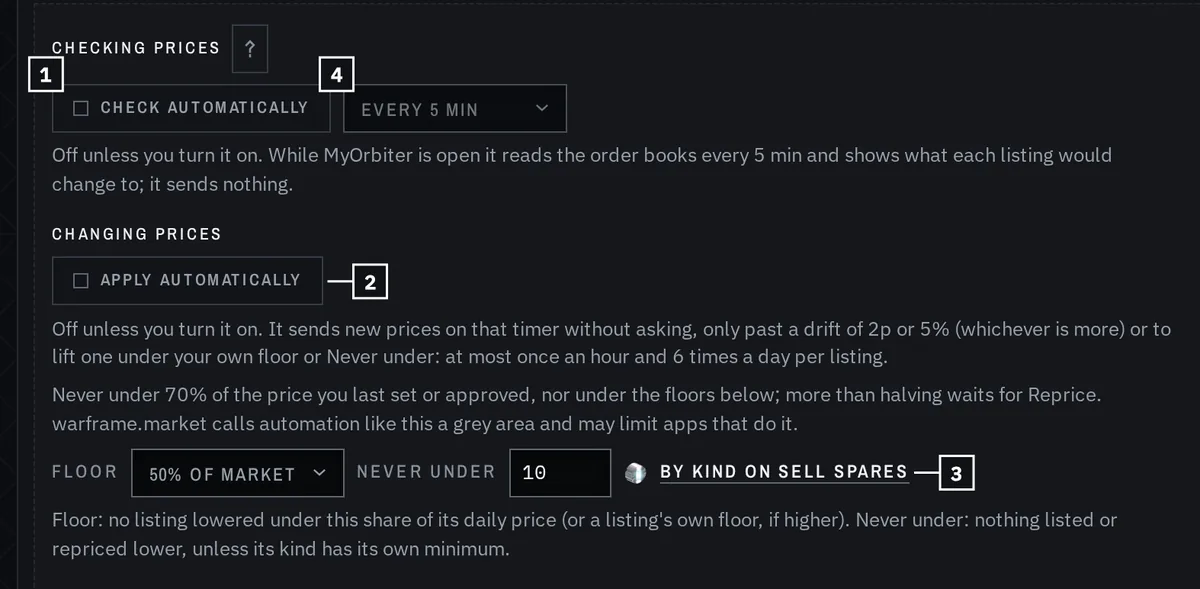
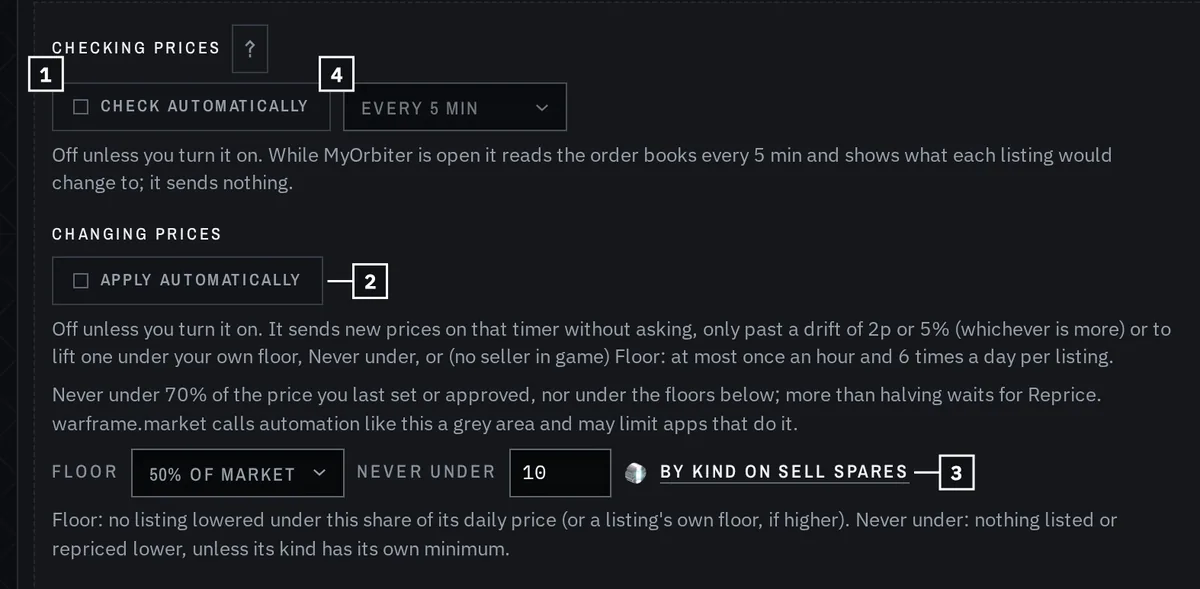
Startup platform, Sync's word, the floor sentence, schedule comments
- The platform at start is never a switch. The defaults' platform comes
  before the saved settings are in, without them, and doesn't count;
  only a change after the saved settings are in clears the saved check
  time. A console player's saved time is kept across a start. The test
  calls the defaults' platform first, then the saved one, as the app
  does.
- Sync's word between syncs comes from core/syncWord.ts: after a sync
  that failed, got no answer or no new read, it keeps that sync's word
  ("Old read", "No read", "Not read") or "Not synced" until a later sync
  goes through. It speaks of the game data only; the Guide and the
  sidebar's help say so. A test covers each outcome.
- Orders: Apply automatically also lifts a listing under Floor when no
  seller is in game; the sentence says so and stays two lines at 960 px.
- schedule.ts: EVERY_CHOICES keeps its own comment, and the header says
  the time is saved for an interval over an hour.

diff --git a/src/App.svelte b/src/App.svelte
@@ -136,6 +136,7 @@
   import Crest from "./lib/ui/Crest.svelte";
   import MoreMenu, { type MoreItem } from "./lib/ui/MoreMenu.svelte";
   import { checkDue } from "./lib/core/schedule";
+  import { syncIdleWord, type SyncEnd } from "./lib/core/syncWord";
   import IconButton from "./lib/ui/IconButton.svelte";
   import ProgressButton from "./lib/ui/ProgressButton.svelte";
   import { Job, JobError } from "./lib/job.svelte";
@@ -296,6 +297,8 @@
 
   let settings = $state<Settings>(defaultSettings());
   let settingsReady = false;
+  /** The saved settings replaced the defaults (set with them, before anything else awaits). */
+  let settingsLoaded = $state(false);
   /** Saved settings are in and drawn: until then a section's saved state is set, not folded to, so
    *  closed sections don't fold shut on every launch. */
   let railSettled = false;
@@ -356,9 +359,10 @@
   $effect(() => {
     if (!available.some((p) => p.id === settings.tab)) settings.tab = "home";
   });
-  // The market follows your platform; a new one means new order books and prices.
+  // The market follows your platform; a new one means new order books and prices. The defaults'
+  // platform, before the saved settings are in, is never a switch.
   $effect(() => {
-    void mkt.usePlatform(settings.market.platform, settings.market).catch(() => {});
+    void mkt.usePlatform(settings.market.platform, settingsLoaded ? settings.market : undefined).catch(() => {});
   });
   // Switching to or from a console changes what an empty TennoScope folder means.
   let wasConsole: boolean | null = null;
@@ -2247,6 +2251,8 @@
   const syncMode = $derived(!onConsole && ts.report?.setup.access_mode === "full" && !!ts.report.game_running);
   /** The sync's step in words, for the button's tooltip (the button itself has a word for it). */
   let syncStep = $state<string | null>(null);
+  /** How the last sync ended, for its word between syncs (`syncIdleWord`). */
+  let syncEnd = $state<SyncEnd | null>(null);
   function refreshAll() {
     // Already at it (Ctrl+R again): the button flashes rather than the key doing nothing.
     if (syncJob.working) {
@@ -2319,7 +2325,12 @@
       } finally {
         syncStep = null;
       }
-    }).finally(syncFinished);
+    })
+      .then(() => {
+        if (syncJob.state === "failed") syncEnd = { failed: true, short: syncJob.short };
+        else if (syncJob.state === "done") syncEnd = { failed: false, note: syncJob.note };
+      })
+      .finally(syncFinished);
   }
 
   // ---------------------------------------------------------------- keyboard, like a desktop app
@@ -2636,6 +2647,7 @@
       // licence: read before anything uses it. Without it there's simply nothing to dissolve into.
       const wiki = loadWikiData().catch((e) => logLine("warn", "app", `couldn't read the wiki data files: ${e}`));
       settings = await loadSettings();
+      settingsLoaded = true;
       // The sidebar's sections take their saved state as it is, without folding; from the next frame on, a change folds.
       requestAnimationFrame(() => (railSettled = true));
       await wiki;
@@ -3014,7 +3026,7 @@
         <HelpMark part="rail.foot" corner />
       </div>
       <div class="tools" class:grid={!compact}>
-      <ProgressButton bind:this={syncButton} class="tool sync" stamp={false} picture="refresh-timer" size={20} aside job={syncJob} busy={loading && !bundle} spin label="Sync" working={syncJob.phase ?? "Reading…"} failLabel={syncJob.short ?? "Not synced"} idleWord={error ? "Not synced" : bundle ? "Up to date" : "Waiting…"} sizer={["Waiting…", "Up to date", "Not synced"]}
+      <ProgressButton bind:this={syncButton} class="tool sync" stamp={false} picture="refresh-timer" size={20} aside job={syncJob} busy={loading && !bundle} spin label="Sync" working={syncJob.phase ?? "Reading…"} failLabel={syncJob.short ?? "Not synced"} idleWord={syncIdleWord(syncEnd, !!error, !!bundle)} sizer={["Waiting…", "Up to date", "Not synced"]}
         title={`${syncStep ? `${syncStep}…\n\n` : ""}${onConsole ? "Reload your warframe.market listings, the fissures and Baro" : syncMode ? "Sync: ask TennoScope to read your inventory from the game now, and wait for the new read" : "Sync: reload TennoScope's last saved read and the live fissures. With Warframe running and TennoScope on Full access, it asks TennoScope for a fresh read from the game instead"} (Ctrl+R)`}
         onclick={refreshAll} />
       <button class="tool bell" data-card="notices" class:paused={pausedNow} aria-label={unread ? `Notifications, ${unread} new` : "Notifications"} aria-expanded={showNotices} title={pausedNow ? `Notifications (paused${unread ? `, ${unread} new` : ""}): what MyOrbiter told you, and what it tells you about` : unread ? `Notifications: ${unread} new` : "Notifications: what MyOrbiter told you, and what it tells you about"} onclick={() => openNotices("recent")}><span class="ti"><GameIcon name="mail" size={20} even /></span><span class="lbl">Notifications</span>{#if unread}<span class="count count-tag">{unread > 99 ? "99+" : unread}</span>{/if}</button>

diff --git a/src/lib/tabs/Guide.svelte b/src/lib/tabs/Guide.svelte
@@ -251,7 +251,7 @@
         <li>Filters and sorting stay as you left them while MyOrbiter is open.</li>
         <li>A page that hits an error says so, with <b>Try again</b> to draw it afresh; the rest of MyOrbiter keeps working, and the log (Settings) has what went wrong.</li>
         <li data-card="report-bug"><span class="ic"><Icon name="bug" /></span> <b>Report a bug</b> (here, in Settings, at the bottom of the sidebar, or with <kbd>Shift</kbd>+<kbd>F1</kbd>): say what happened, and Open on GitHub puts the report on your clipboard and opens MyOrbiter's issue form on GitHub, for you to paste it into the first box, give it a title and submit (the page's address carries only the version and your system; MyOrbiter itself sends nothing), or Copy report copies it to send another way if you don't have a GitHub account. It can add technical details (MyOrbiter's version, your system, the page, TennoScope's state and the log's last lines) with sign-ins, addresses, ids and every player's name hidden, and you can read all of it before sending. MyOrbiter itself never sends anything. <button type="button" class="link" title="Open Report a bug: nothing is posted until you press Submit new issue on GitHub" onclick={() => bugReport.show()}>Report a bug</button></li>
-        <li><b>Sync</b> (bottom of the sidebar) asks TennoScope to read your inventory from the game, fills while it waits for that new read (up to half a minute), and ticks once it's loaded; if no read comes, it says why under the button. Between syncs it says Up to date, or Not synced when the last read failed. When Warframe isn't running or TennoScope can't read the game, it re-reads what TennoScope last saved instead. Buttons that start longer work (Check prices on Orders and Rivens, Reprice, the spares plan) fill the same way and say how it went.</li>
+        <li><b>Sync</b> (bottom of the sidebar) asks TennoScope to read your inventory from the game, fills while it waits for that new read (up to half a minute), and ticks once it's loaded; if no read comes, it says why under the button. Between syncs it keeps the last sync's word: Up to date, or Old read, No read, Not read or Not synced until a sync goes through. The word is about your game data only, not the fissures or the other cards from the live worldstate. When Warframe isn't running or TennoScope can't read the game, it re-reads what TennoScope last saved instead. Buttons that start longer work (Check prices on Orders and Rivens, Reprice, the spares plan) fill the same way and say how it went.</li>
         <li>Beside Sync and Notifications, Settings; under them, the rest of the buttons: Search, Help (this Guide) and Report a bug, each with its name and shortcut when you point at it, and <b>TennoScope</b>, which opens its panel: whether it's healthy, screen-capture permission for the reward overlay, and inventory sync. Its diamond is filled silver when all is well, outlined in dark red when something wants a look (a request that failed in the last minute, screen-capture permission to allow, no choice yet about reading your inventory, or no report from it yet), filled dark red when it isn't running or a part of it failed, and an outline in silver while its status isn't known yet. With the sidebar folded to icons they are in <b>More</b>, under Notifications: arrow keys move through its menu and Esc closes it.</li>
         <li>The sidebar folds to icons on narrow windows; the arrow at its top left folds or unfolds it, from the same spot in both widths, and MyOrbiter remembers your choice.</li>
         <li>Animations follow your system's reduce-motion setting: with it on, things change at once without moving.</li>

diff --git a/src/lib/core/schedule.ts b/src/lib/core/schedule.ts
@@ -4,18 +4,20 @@
 // are read; the limits per listing (core/drift.ts: once an hour, six times a day) are separate and
 // hold whatever the interval.
 //
-// The time of the last timed check is kept in the settings, so a long interval means what it says
-// across restarts: a start before the next check is due waits for it; a start after it was due
-// (the app was closed when it fell) runs one check, once, as soon as the first check after a start
-// can run; the next one comes a whole interval after that. A saved time in the future (a clock
-// that went back) counts as due, as no saved time does: one check, as on every start before.
+// For an interval over an hour, the time of the last timed check is kept in the settings, so a
+// long interval means what it says across restarts: a start before the next check is due waits
+// for it; a start after it was due (the app was closed when it fell) runs one check, once, as soon
+// as the first check after a start can run; the next one comes a whole interval after that. A
+// saved time in the future (a clock that went back) counts as due, as no saved time does: one
+// check, as on every start before. At an hour or less the time stays in memory, and a start
+// checks at once.
 
-/** The intervals offered, in minutes: every 1, 2, 5, 10, 15 and 30 minutes, every hour, 2, 6 and 12 hours, once a day, once a week. */
 /** Only intervals over this many minutes save the time of the last check in the settings: a save
  *  (and the redraw of hidden pages it brings) then comes at most once an hour. */
 export const SAVED_ABOVE_MIN = 60;
 export const savesCheck = (every: number | undefined): boolean => every != null && every > SAVED_ABOVE_MIN;
 
+/** The intervals offered, in minutes: every 1, 2, 5, 10, 15 and 30 minutes, every hour, 2, 6 and 12 hours, once a day, once a week. */
 export const EVERY_CHOICES = [1, 2, 5, 10, 15, 30, 60, 120, 360, 720, 1440, 10080] as const;
 
 /** The interval from a saved file: one of the choices, or `fallback`. */

diff --git a/tests/syncWord.test.ts b/tests/syncWord.test.ts
@@ -1,0 +1,43 @@
+// Sync's word between syncs (core/syncWord.ts): one case per way a sync can end.
+import { test } from "node:test";
+import assert from "node:assert/strict";
+import { syncIdleWord, type SyncEnd } from "../src/lib/core/syncWord";
+
+const done = (note: string | null): SyncEnd => ({ failed: false, note });
+const failed = (short: string | null): SyncEnd => ({ failed: true, short });
+
+test("before the first load: waiting; once the data is in: up to date", () => {
+  assert.equal(syncIdleWord(null, false, false), "Waiting…");
+  assert.equal(syncIdleWord(null, false, true), "Up to date");
+});
+
+test("a sync that went through: up to date", () => {
+  assert.equal(syncIdleWord(done("Synced"), false, true), "Up to date");
+  assert.equal(syncIdleWord(done("Up to date"), false, true), "Up to date");
+});
+
+test("a sync that ended without a new read keeps its own word", () => {
+  assert.equal(syncIdleWord(done("Old read"), false, true), "Old read");
+  assert.equal(syncIdleWord(done("No read"), false, true), "No read");
+});
+
+test("a sync that failed keeps its word, or says not synced", () => {
+  // The saved data couldn't be read.
+  assert.equal(syncIdleWord(failed("Not read"), false, true), "Not read");
+  // TennoScope didn't answer, or no new read came in time: no short word of its own.
+  assert.equal(syncIdleWord(failed(null), false, true), "Not synced");
+  // Never up to date, whatever loaded before.
+  assert.notEqual(syncIdleWord(failed(null), false, true), "Up to date");
+});
+
+test("saved data that couldn't be read: not synced", () => {
+  assert.equal(syncIdleWord(null, true, true), "Not synced");
+  assert.equal(syncIdleWord(done("Synced"), true, true), "Not synced");
+});
+
+test("a later sync that succeeds puts it back to up to date", () => {
+  let last: SyncEnd = failed(null);
+  assert.equal(syncIdleWord(last, false, true), "Not synced");
+  last = done("Synced");
+  assert.equal(syncIdleWord(last, false, true), "Up to date");
+});

diff --git a/src/lib/marketStore.svelte.ts b/src/lib/marketStore.svelte.ts
@@ -175,7 +175,8 @@ class MarketStore {
    * Switches market: every order book, price history and cheap-buy result read so far was the
    * other platform's, so they go.
    */
-  /** `s`: the market settings, whose saved check time goes with a switch (the old platform's). */
+  /** `s`: the saved market settings, once they're in; their saved check time goes with a switch (the
+   *  old platform's). Before them (the defaults) there's no `s`, and nothing counts as a switch. */
   async usePlatform(p: Platform, s?: { lastCheck?: number | null }) {
     // One switch at a time, in the order asked: PC → Xbox → PC quickly ends on PC.
     const run = this.switching.then(() => this.switchPlatform(p, s));
@@ -183,11 +184,12 @@ class MarketStore {
     return run;
   }
   private switching: Promise<void> = Promise.resolve();
-  /** The first platform this run is the one MyOrbiter starts on, not a switch. */
+  /** The saved settings' platform is in: the one MyOrbiter starts on, not a switch. Only a change
+   *  after it is one. */
   private chosen = false;
   private async switchPlatform(p: Platform, s?: { lastCheck?: number | null }) {
-    const first = !this.chosen;
-    this.chosen = true;
+    const isSwitch = !!s && this.chosen;
+    if (s) this.chosen = true;
     if (p === this.platform) return;
     await market.setPlatform(p);
     this.platform = p;
@@ -196,9 +198,9 @@ class MarketStore {
     this.deals = [];
     this.dealsAt = null;
     this.lastPass = null;
-    if (!first) {
+    if (isSwitch) {
       this.switched = true;
-      if (s) s.lastCheck = null;
+      s.lastCheck = null;
     }
     // The live feed subscribed to the old platform's new listings: started again if it's on.
     if (this.feedOn) {

diff --git a/tests/scheduleStore.test.ts b/tests/scheduleStore.test.ts
@@ -112,14 +112,17 @@ test("a pass that stops after three failed reads is tried again within the hour 
 test("after a platform switch the saved time is set aside and cleared: the new platform is checked at once", async () => {
   market.setPlatform = (async () => {}) as never;
   const saved = Date.now() - MIN;
-  const s = settings({ every: 24 * 60, lastCheck: saved });
-  const other = mkt.platform === "pc" ? "ps4" : "pc";
-  // The platform MyOrbiter starts on is no switch: the saved time stands.
-  await mkt.usePlatform(other as never, s);
+  const s = settings({ platform: "ps4", every: 24 * 60, lastCheck: saved });
+  // As MyOrbiter starts: the defaults' platform first (PC, before the saved settings are in, so
+  // with none), then the saved settings' own, a console. Neither is a switch: the saved time stands.
+  await mkt.usePlatform(defaultMarketSettings().platform);
+  await mkt.usePlatform("ps4", s);
   assert.equal(s.lastCheck, saved);
   assert.equal(mkt.lastCheckOf(s), saved);
+  assert.equal(checkDue(mkt.lastCheckOf(s), mkt.passDelay(24 * 60 * MIN), Date.now()), false, "a start before it's due waits");
   // A switch while it runs: set aside now, and gone from the settings for the next start.
-  await mkt.usePlatform((other === "pc" ? "ps4" : "pc") as never, s);
+  s.platform = "pc";
+  await mkt.usePlatform("pc", s);
   assert.equal(mkt.lastCheckOf(s), null);
   assert.equal(s.lastCheck, null);
   assert.equal(checkDue(mkt.lastCheckOf(s), mkt.passDelay(24 * 60 * MIN), Date.now()), true);

diff --git a/src/lib/tabs/Orders.svelte b/src/lib/tabs/Orders.svelte
@@ -908,7 +908,7 @@
           <section class="pg" aria-labelledby="auto-apply-h">
             <h3 class="register" id="auto-apply-h">Changing prices</h3>
             <div class="grp"><Chip bind:on={settings.auto} label="Apply automatically" title={`Off unless you turn it on. Also send the new prices to warframe.market on that timer, without asking. ${DRIFT_RULES}. ${console ? AUTO_LIMITS_CONSOLE : AUTO_LIMITS}. ${GREY_AREA}.`} onchange={(on) => { if (on) settings.autoCheck = true; }} /></div>
-            <p class="dim small why">Off unless you turn it on. It sends new prices on that timer without asking, only past a drift of {BAND_WORDS} or to lift one under your own floor or Never under: at most once {every(DRIFT.cooldownMs)} and {DRIFT.perDay} times a day per listing.</p>
+            <p class="dim small why">Off unless you turn it on. It sends new prices on that timer without asking, only past a drift of {BAND_WORDS} or to lift one under your own floor, Never under, or (no seller in game) Floor: at most once {every(DRIFT.cooldownMs)} and {DRIFT.perDay} times a day per listing.</p>
             <p class="dim small why">Never under {Math.round(AUTO_FLOOR_SHARE * 100)}% of the price you last set or approved, nor under the floors below; more than halving waits for Reprice. {GREY_AREA}.</p>
             <div class="grp">
               <span class="register">Floor</span>

diff --git a/src/lib/core/syncWord.ts b/src/lib/core/syncWord.ts
@@ -1,0 +1,21 @@
+// Sync's word between syncs, beside its picture in the full sidebar's foot: how the last sync of
+// your game data (TennoScope's read, or its saved data) ended. It says nothing of the world state
+// or of warframe.market: those load on their own and their cards say how they went.
+
+/** How the last sync ended: failed (with the button's short word, if it had one) or done (its word). */
+export type SyncEnd = { failed: true; short: string | null } | { failed: false; note: string | null };
+
+/** Done, but without a new read: the button's own words for it, kept until a later sync succeeds. */
+export const SYNC_PARTIAL = ["Old read", "No read"] as const;
+
+/**
+ * The idle word. A sync that failed, got no answer or no new read keeps its word ("Not synced"
+ * when it had none) until a later sync succeeds; so does saved data that couldn't be read.
+ * "Up to date" only once the data is in and nothing since says otherwise.
+ */
+export function syncIdleWord(last: SyncEnd | null, readFailed: boolean, loaded: boolean): string {
+  if (last?.failed) return last.short ?? "Not synced";
+  if (last && (SYNC_PARTIAL as readonly (string | null)[]).includes(last.note)) return last.note!;
+  if (readFailed) return "Not synced";
+  return loaded ? "Up to date" : "Waiting…";
+}

diff --git a/src/lib/help/panels.ts b/src/lib/help/panels.ts
@@ -286,7 +286,7 @@ const RAIL: Walkthrough = {
     {
       title: "Every button, under the status",
       lines: [
-        "Sync asks TennoScope for a new read (Ctrl+R); beside it, Up to date or Not synced.",
+        "Sync asks TennoScope for a new read (Ctrl+R). Its word speaks of your game data only.",
         "Notifications: what MyOrbiter told you lately; its number is how many are new.",
         "Settings (Ctrl+,); below, Search finds anything by name (Ctrl+K).",
         "Then Help (F1), Report a bug (Shift+F1) and TennoScope, its diamond filled when all is well.",
